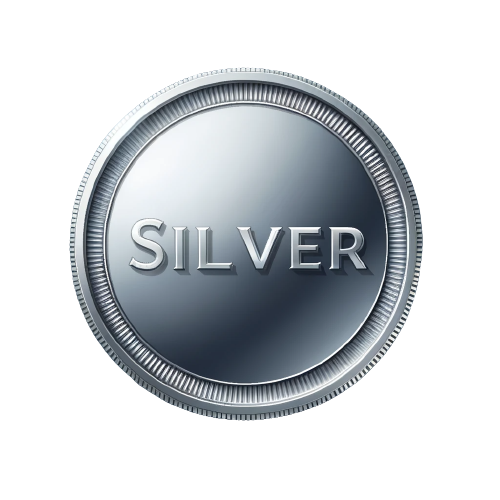
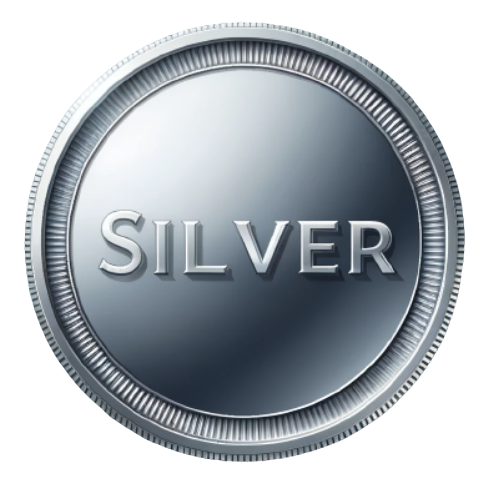
Update silver.png and reverse order of notifications

diff --git a/app/tabs/home.js b/app/tabs/home.js
@@ -294,7 +294,7 @@ const HomeScreen = () => {
             <View flex center>
               <Image
                 source={require("../assets/silver.png")}
-                style={{ width: 45, height: 45 }}
+                style={{ width: 40, height: 40}}
               />
             </View>
             <Text center color="white">

diff --git a/app/tabs/notifications.js b/app/tabs/notifications.js
@@ -38,7 +38,7 @@ const NotificationsScreen = () => {
     >
       <ScrollView>
         {data ? (
-          data.map((item, index) => (
+          data.slice().reverse().map((item, index) => (
             <Card
               key={index}
               style={{
